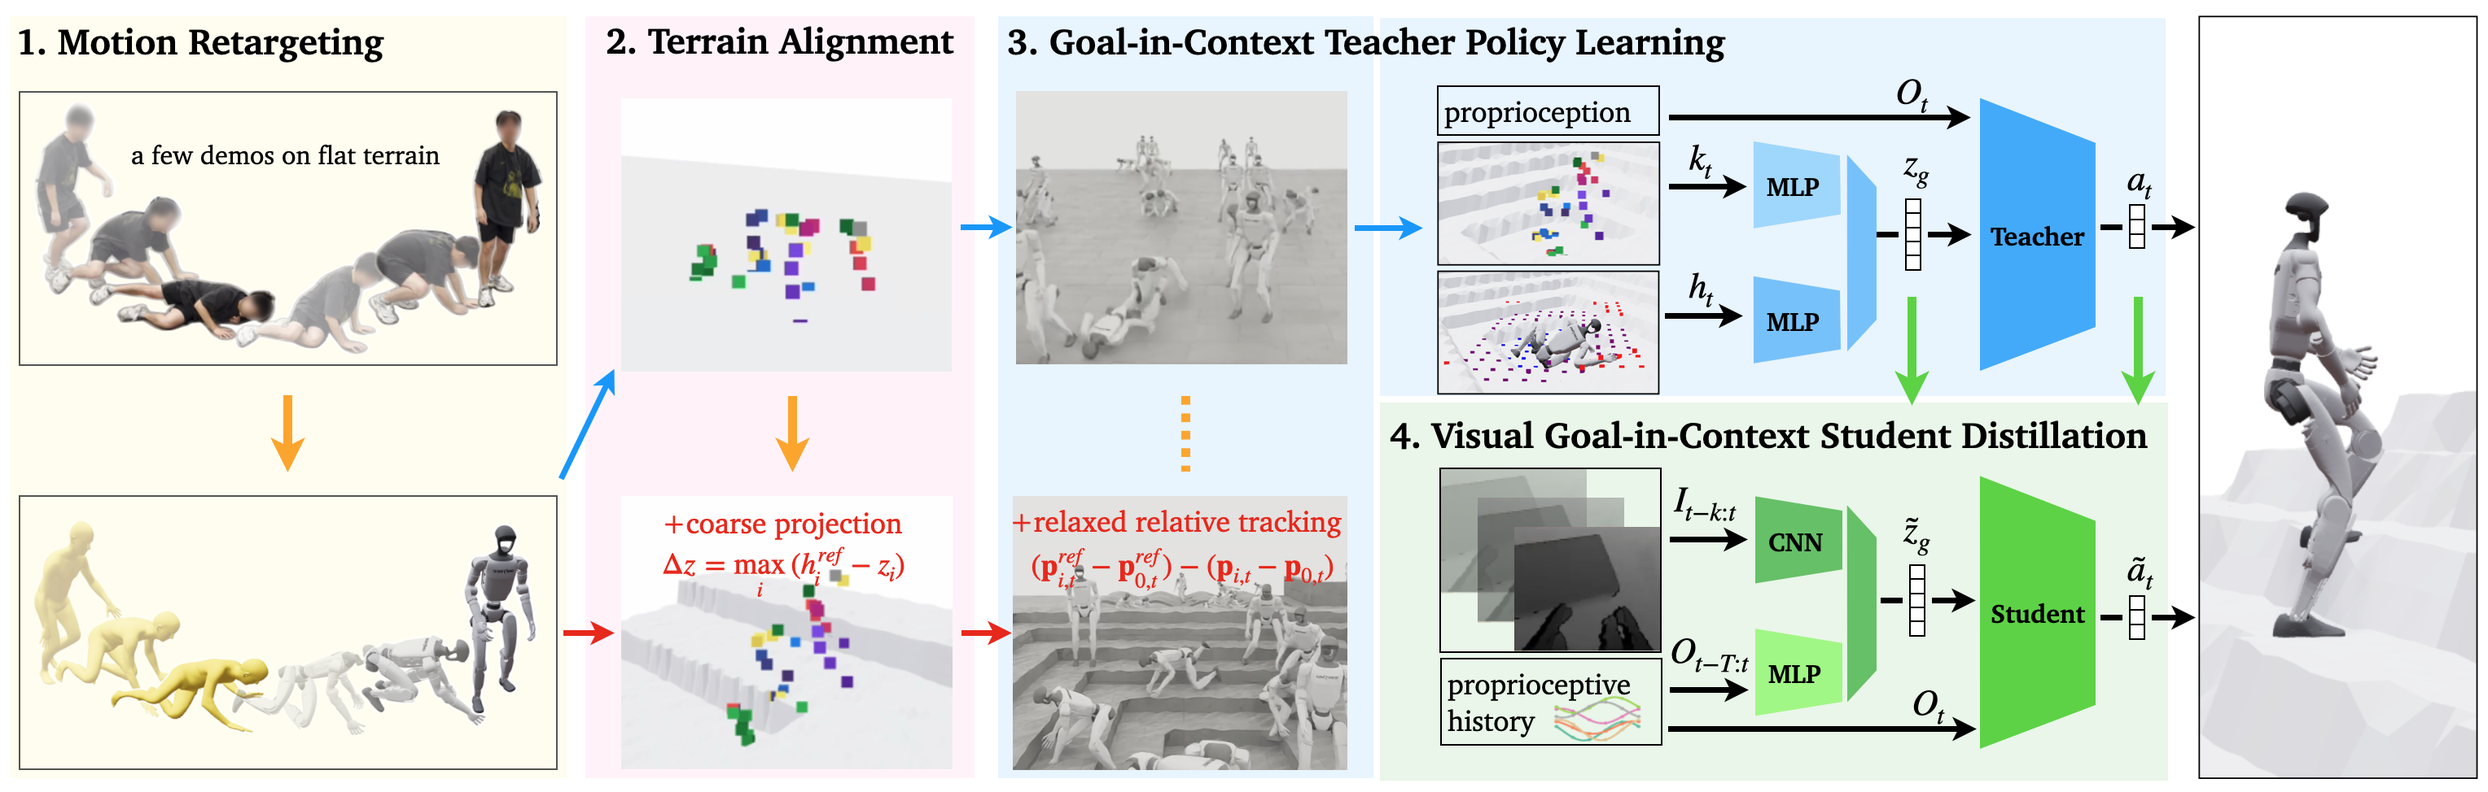
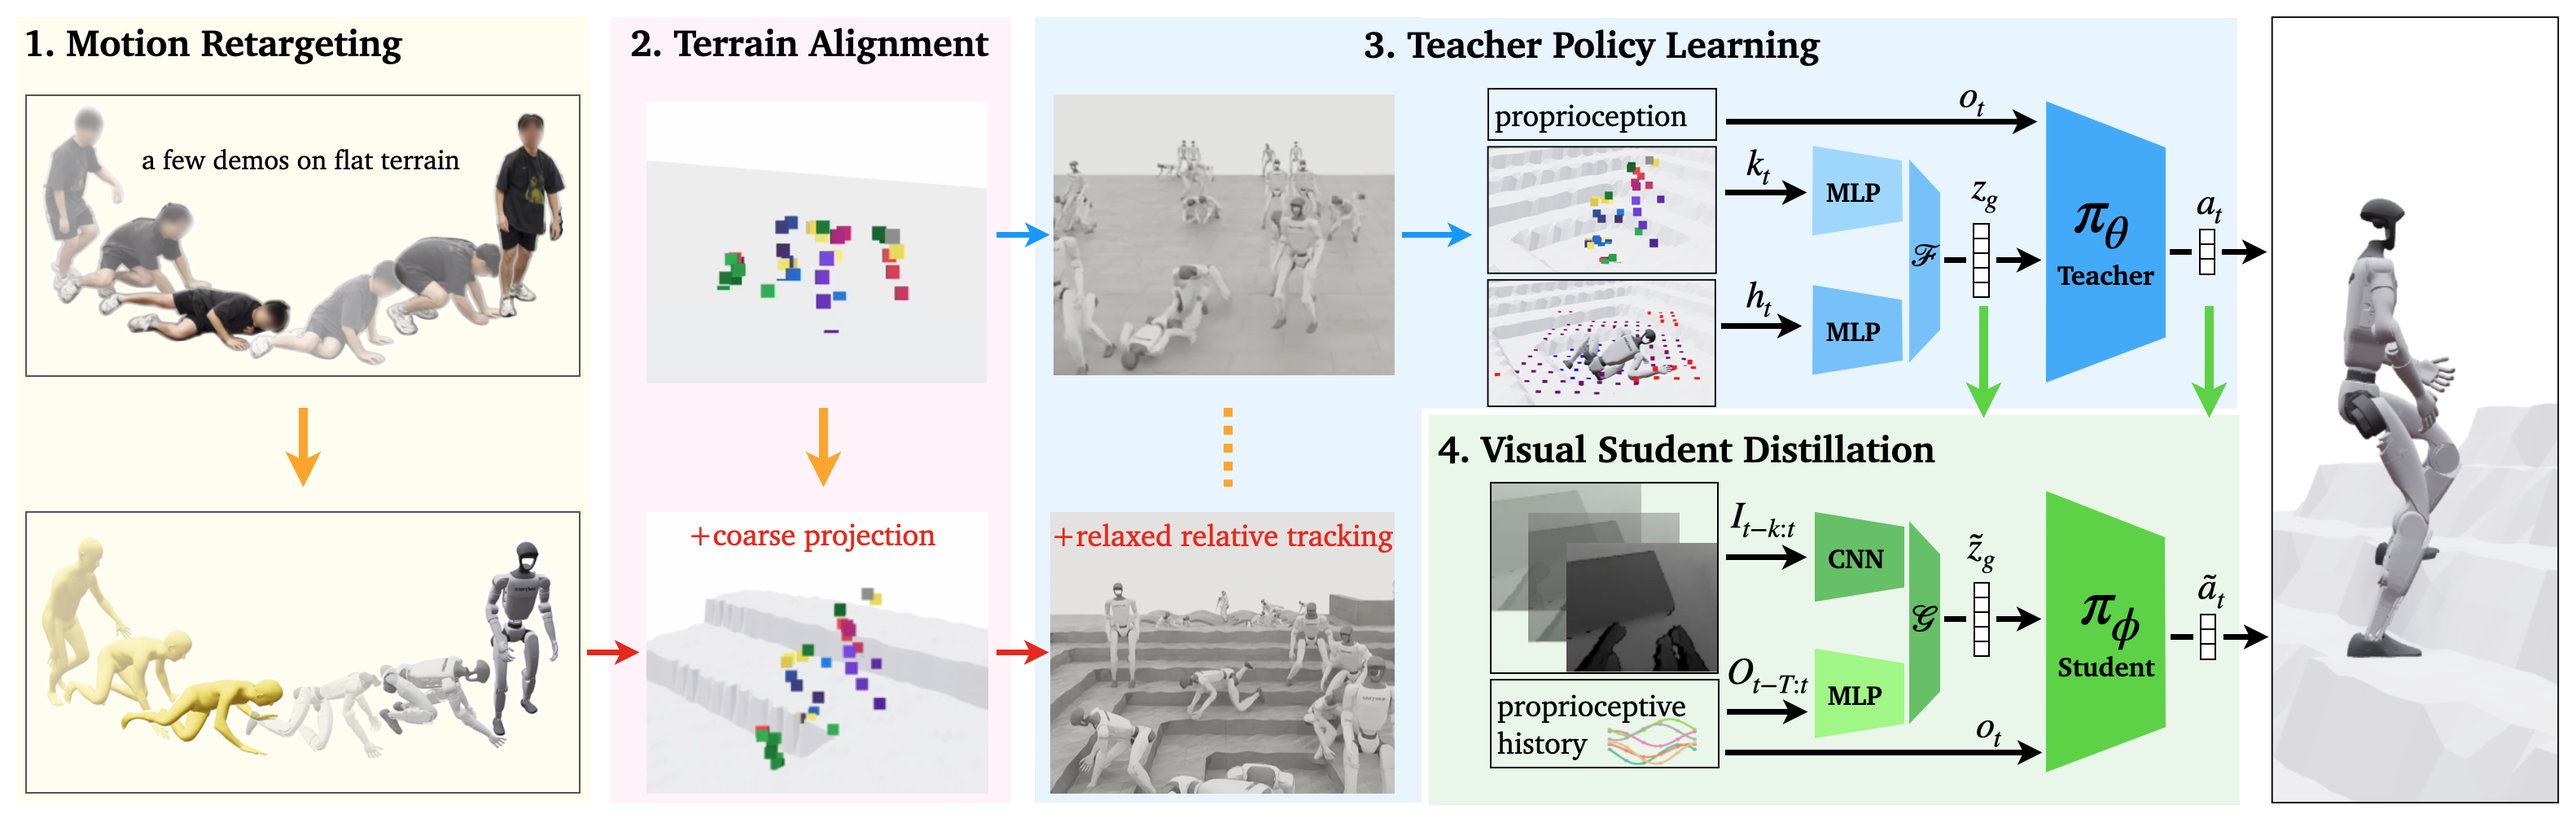
Update VIGOR website to revised paper title and method

diff --git a/index.html b/index.html
@@ -6,7 +6,7 @@
   <meta name="description" content="A method for jointly solving humanoid stand-up and fall recovery tasks.">
   <meta name="keywords" content="VIGOR, Humanoid">
   <meta name="viewport" content="width=device-width, initial-scale=1">
-  <title>VIGOR</title>
+  <title>Unified Perceptive Fall Safety for Humanoids</title>
   <link rel="preconnect" href="https://fonts.googleapis.com">
   <link rel="preconnect" href="https://fonts.gstatic.com" crossorigin>
   <link
@@ -44,7 +44,7 @@
   <nav class="navbar is-white is-fixed-top vigor-navbar" role="navigation" aria-label="main navigation">
     <div class="navbar-brand">
       <a class="navbar-item vigor-brand" href="#top">
-        <strong>VIGOR: Visual Goal-In-Context Inference for Unified Humanoid Fall Safety</strong>
+        <strong>VIGOR</strong>
       </a>
 
       <a role="button" class="navbar-burger" aria-label="menu" aria-expanded="false" data-target="vigorNavbarMenu">
@@ -79,17 +79,8 @@
           <div class="column has-text-centered">
 
             <h1 class="title is-1 publication-title vigor-title">
-              <span class="vigor-title-line">
-                <span class="vigor-word">
-                  <span class="vigor-letter vigor-V">V</span><span class="vigor-letter vigor-I">I</span><span
-                    class="vigor-letter vigor-G">G</span><span class="vigor-letter vigor-O">O</span><span
-                    class="vigor-letter vigor-R">R</span>
-                </span>:
-                <span class="vigor-letter vigor-V">V</span><span class="vigor-letter vigor-I">i</span>sual
-                <span class="vigor-letter vigor-G">G</span><span class="vigor-letter vigor-O">o</span>al-In-Context
-                Infe<span class="vigor-letter vigor-R">r</span>ence
-              </span>
-              <span class="vigor-title-line">for Unified Humanoid Fall Safety</span>
+              <span class="vigor-title-line">Unified Perceptive Fall Safety</span>
+              <span class="vigor-title-line">for Humanoids</span>
             </h1>
             <!-- <p class="vigor-subtitle">
               Unified fall mitigation + stand-up recovery with egocentric vision.
@@ -238,11 +229,11 @@
                 <span class="hl">visual perception</span> through reinforcement learning or imitation learning,
                 often on flat terrain, limiting scalability and generalization.
 
-                We present a <span class="tag">unified</span> fall safety approach for all phases of fall recovery.
+                We present VIGOR, a <span class="tag">unified</span> fall safety approach for all phases of fall recovery.
                 It builds on two insights: 1) natural human fall and recovery poses are highly constrained and
                 transferable
-                from flat to complex terrain through alignment, and 2) fast whole-body reactions require
-                <span class="hl">integrated perceptual-motor representations</span>.
+                from flat to complex terrain through alignment, and 2) effective recovery depends on
+                <span class="hl">interpreting the recovery goal in relation to the surrounding terrain</span>.
 
                 We train a privileged teacher using sparse human demonstrations on flat and simulated complex terrains,
                 and distill it into a deployable student that relies only on
@@ -438,14 +429,14 @@
           </p>
 
           <ul class="content has-text-left method-list vigor-prose">
-            <li><strong>1. Motion retargeting:</strong> Human fall–recovery demonstrations are kinematically retargeted
-              to the robot.</li>
+            <li><strong>1. Motion retargeting:</strong> Human fall–recovery demonstrations collected on flat ground
+              are kinematically retargeted to the robot.</li>
             <li><strong>2. Terrain alignment:</strong> References are used directly on flat terrain and coarsely
               projected onto uneven terrain to provide sparse tracking targets.</li>
-            <li><strong>3. Teacher policy learning:</strong> A privileged teacher is trained with RL and learns a Visual
-              Goal-in-Context representation that captures the immediate recovery pose and local terrain.</li>
-            <li><strong>4. Goal-in-context distillation:</strong> A student distills the teacher’s terrain-aware
-              recovery behavior from egocentric depth and short-term proprioceptive history for deployment.</li>
+            <li><strong>3. Teacher policy learning:</strong> A privileged RL teacher learns a goal-in-context latent
+              representing the immediate recovery target in relation to local terrain.</li>
+            <li><strong>4. Visual student distillation:</strong> A student learns through latent supervision and action
+              imitation, using only egocentric depth and proprioceptive history at deployment.</li>
           </ul>
         </div>
       </div>
@@ -454,7 +445,8 @@
       <div class="columns is-centered">
         <div class="column is-full">
           <figure class="image vigor-figure">
-            <img src="./static/images/method.png" alt="Our method diagram">
+            <img src="./static/images/method.png" width="3164" height="1016" loading="lazy"
+              alt="VIGOR overview: motion retargeting, terrain alignment, teacher policy learning, and visual student distillation through latent supervision and action imitation">
           </figure>
         </div>
       </div>
@@ -758,7 +750,7 @@
     <div class="container is-max-desktop content">
       <h2 class="title">BibTeX</h2>
       <pre><code>@article{anonymous2026vigor,
-  title   = {VIGOR: Visual Goal-In-Context Inference for Unified Humanoid Fall Safety},
+  title   = {Unified Perceptive Fall Safety for Humanoids},
   author  = {anonymous},
   journal = {},
   year    = {2026}
@@ -771,7 +763,7 @@
     <div class="container is-max-desktop">
       <div class="content has-text-centered vigor-footer-topbar">
         <p class="vigor-footer-title">
-          VIGOR: Visual Goal-In-Context Inference for Unified Humanoid Fall Safety
+          Unified Perceptive Fall Safety for Humanoids
         </p>
         <p class="vigor-footer-muted">
           Page template borrowed from <a href="https://github.com/nerfies/nerfies.github.io">Nerfies</a>.

diff --git a/static/css/index.css b/static/css/index.css
@@ -117,7 +117,7 @@ h2.title.is-3 {
   border-right: none;
 }
 
-.vigor-title {
+.publication-title.vigor-title {
   font-weight: 800;
   letter-spacing: -0.03em;
   line-height: 1.06;
@@ -1044,7 +1044,7 @@ h2.title.is-3 {
     padding-bottom: 3.2rem;
   }
 
-  .vigor-title {
+  .publication-title.vigor-title {
     font-size: 1.72rem;
     line-height: 1.12;
     max-width: 100%;
